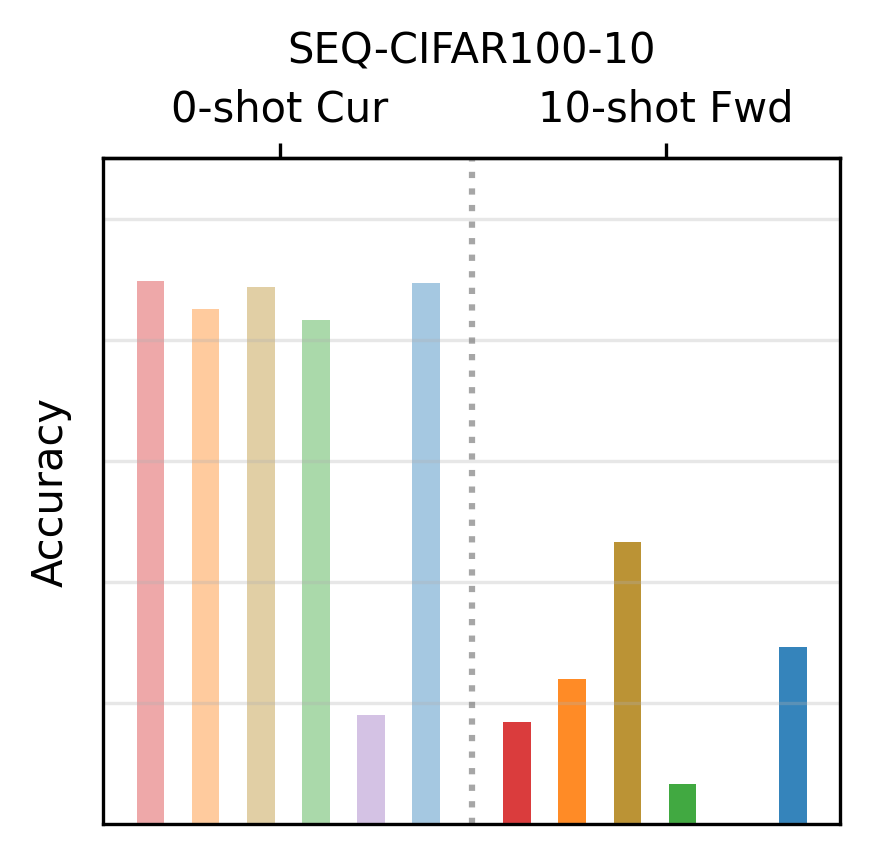
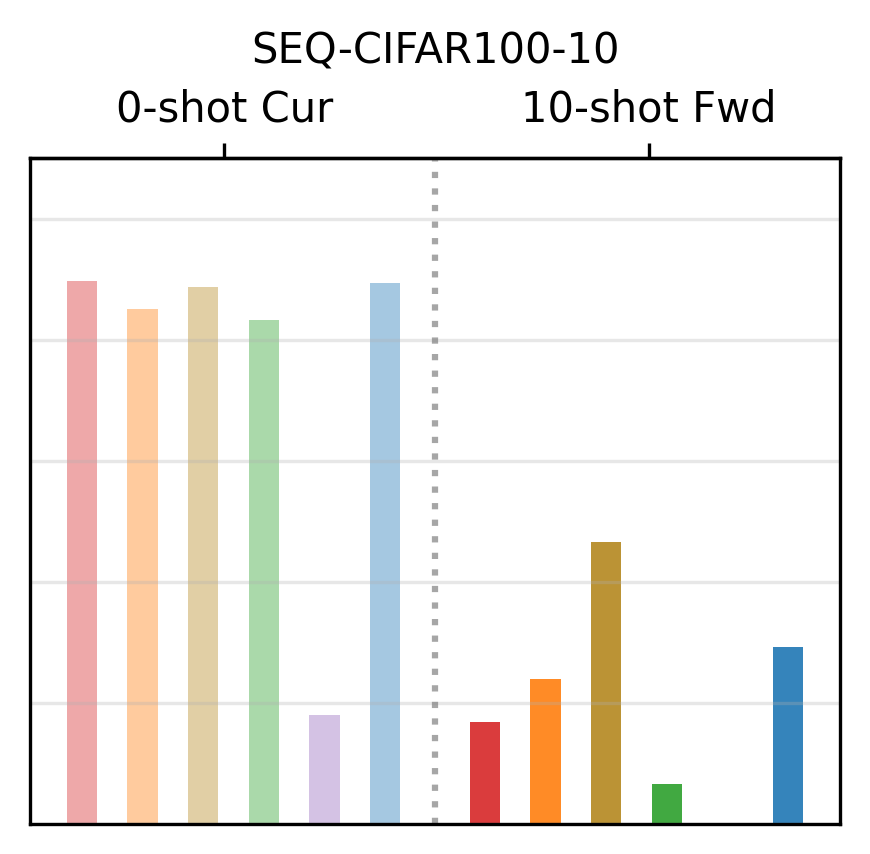
plots

Changed region(s): [[0.031, 0.1827, 0.8069, 0.9742], [0.1241, 0.0304, 0.931, 0.1827], [0.869, 0.7611, 0.931, 0.9742]]

diff --git a/results_for_paper.py b/results_for_paper.py
@@ -562,7 +562,7 @@ def plot_forward_transfer(
     # Create figure with one column per k-value
     nrows = 1
     ncols = len(plot_k_values)
-    fig, axes = plt.subplots(nrows, ncols, figsize=(3 * ncols, 3.5), squeeze=False)
+    fig, axes = plt.subplots(nrows, ncols, figsize=(3 * ncols, 3.5) if dataset != 'seq-mnist' else (5 * ncols, 3.5), squeeze=False)
     axes_flat = axes.flatten()
     
     # Plot each k-value
@@ -611,19 +611,34 @@ def plot_forward_transfer(
         colors_current = [get_method_color(m) for m in methods_with_data]
         colors_forward = [get_method_color(m) for m in methods_with_data]
 
-        ax.bar(x_current, current_values, width=bar_width, alpha=0.4, color=colors_current)
-        ax.bar(x_forward, forward_values, width=bar_width, alpha=0.9, color=colors_forward)
+        bars_0shot = ax.bar(x_current, current_values, width=bar_width, alpha=0.4, color=colors_current)
+        bars_kshot = ax.bar(x_forward, forward_values, width=bar_width, alpha=0.9, color=colors_forward)
+
+        # Add legend in top right of each subplot
+        if dataset == 'seq-mnist':
+            handles, labels = ax.get_legend_handles_labels()
+            method_labels = sorted([LABEL_MAP.get(get_method_label(m), get_method_label(m)) for m in method_current])
+            ax.legend(handles+list(bars_0shot), labels+method_labels, loc='center right', ncols=1,
+                   bbox_to_anchor=(-0.2, 0.5), fontsize='small', labelspacing=1)
+            
+            ax.set_ylabel(metric.capitalize() if col_idx == 0 else '')
+            ax.set_yticklabels([0,20,40,60,80,100], va='bottom')
+
+        if dataset != 'seq-mnist':
+            ax.yaxis.set_tick_params(length=0)
+            ax.set_yticklabels([])
 
         all_labels = [get_method_label(m) for m in methods_with_data] * 2
         tick_positions = x_current + x_forward
-        ax.set_xticks(tick_positions)
-        ax.set_xticklabels(all_labels, rotation=45, ha='right', fontsize=8)
+        # ax.set_xticks(tick_positions)
+        ax.set_xticks([])
+        # ax.set_xticklabels(all_labels, rotation=45, ha='right', fontsize=8)
         secax = ax.secondary_xaxis('top')
-        secax.set_xticks([sum(x_current)//len(x_current), 1+sum(x_forward)//len(x_forward)], labels=["0-shot Current", f'{k_val}-shot Forward'])
+        secax.set_xticks([sum(x_current)//len(x_current), 1+sum(x_forward)//len(x_forward)], labels=["0-shot Cur", f'{k_val}-shot Fwd'])
         ax.axvline(x=(x_current[-1] + x_forward[0]) / 2, color='gray', linestyle=':', linewidth=1.5, alpha=0.7)
         ax.set_title(get_dataset_name(dataset, include_20task), fontsize=10)
         
-        ax.set_ylabel(metric.capitalize() if col_idx == 0 else '')
+        # ax.set_ylabel(metric.capitalize() if col_idx == 0 else '')
         ax.grid(True, axis='y', alpha=0.3)
         
         # Set y-axis limits based on metric with extra headroom
